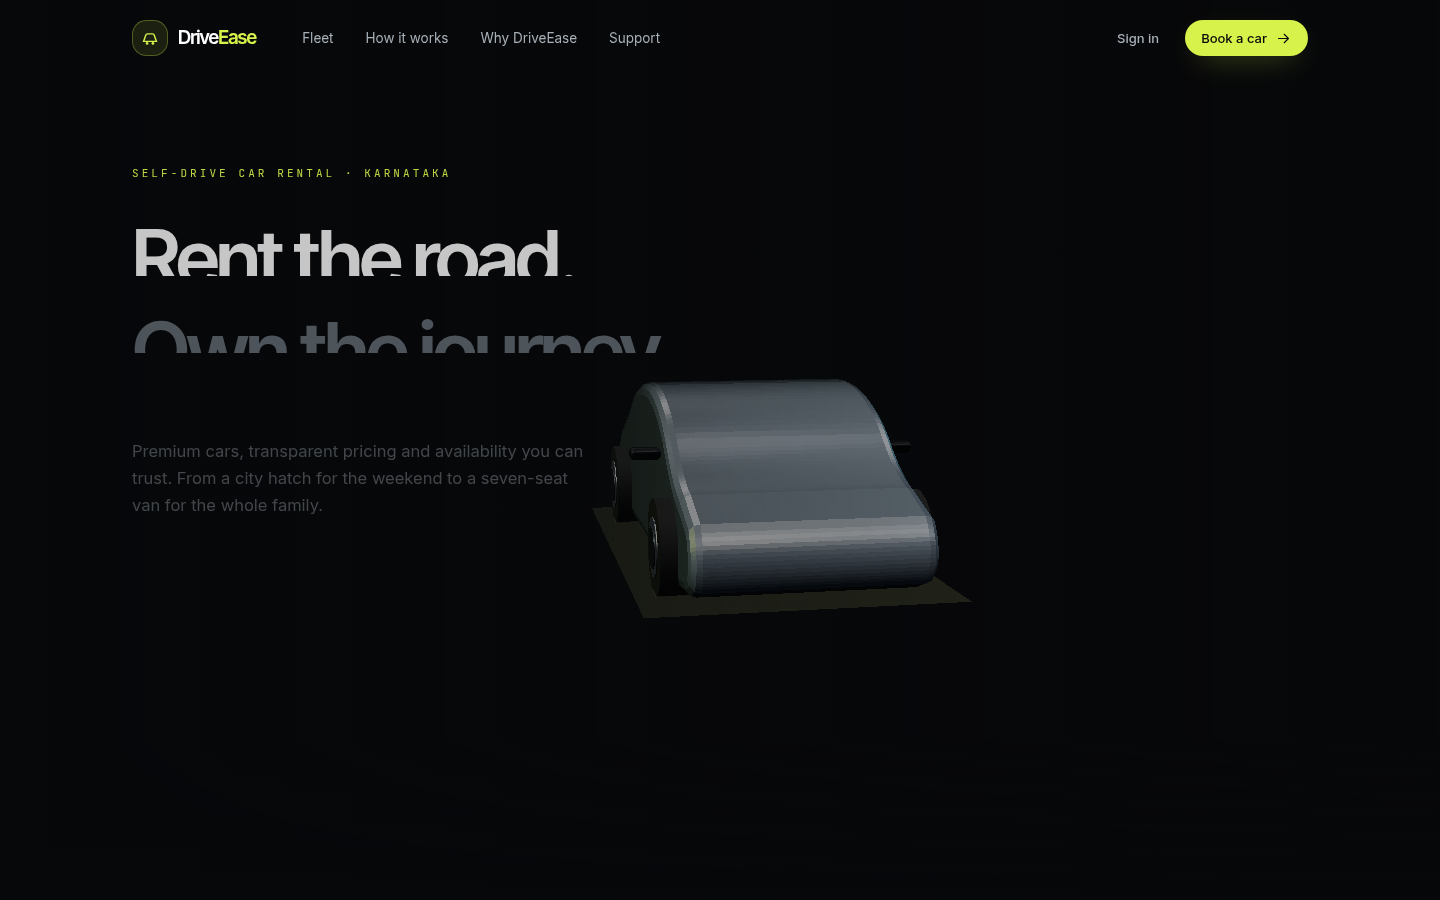
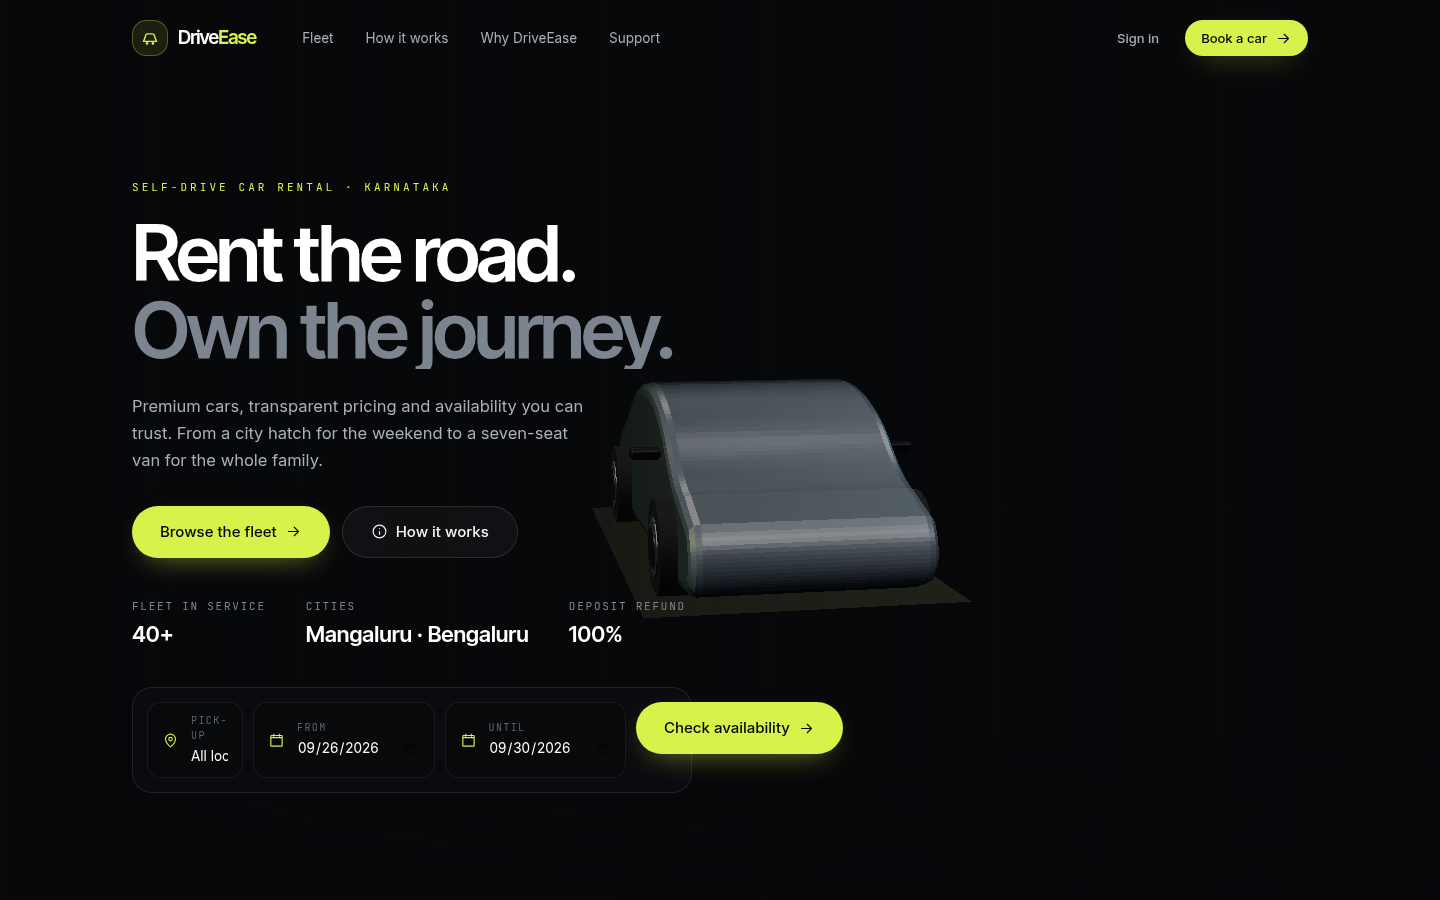
fix(auth): single-flight session restore and token-only refresh handling
- StrictMode double-mount (or a colliding 401 retry) fired two rotating
  refresh calls with the same cookie; reuse detection revoked the whole
  token family, silently signing the user out on every full page load.
  Refreshes now share one in-flight promise.
- applySession no longer clobbers the restored profile when /auth/refresh
  returns tokens only (profile arrives from GET /auth/session).
- Layout: fixed navbar offsets past the 260px console sidebar (no logo
  overlap); mobile hero uses min-height so short viewports never clip the
  headline under the navbar.
- Visual QA: authenticated Chromium walkthroughs of admin, fleet and
  customer consoles incl. mobile; 8 new screenshots in docs/screenshots.

diff --git a/frontend/src/context/AuthContext.jsx b/frontend/src/context/AuthContext.jsx
@@ -31,8 +31,17 @@ export function AuthProvider({ children }) {
 
   const applySession = useCallback((payload) => {
     setAccessToken(payload?.accessToken || null);
-    setUser(payload?.user || null);
-    setStatus(payload?.user ? 'authenticated' : 'anonymous');
+    if (payload?.user) {
+      setUser(payload.user);
+      setStatus('authenticated');
+    } else if (!payload?.accessToken) {
+      // Nothing arrived at all - treat as signed out.
+      setUser(null);
+      setStatus('anonymous');
+    }
+    // Tokens-only payloads (POST /auth/refresh carries no profile) leave the
+    // user/status untouched: refreshSession() has already resolved the profile
+    // via GET /auth/session and clobbering it here would sign the user out.
   }, []);
 
   const clearSession = useCallback(() => {
@@ -45,21 +54,40 @@ export function AuthProvider({ children }) {
    * Called by the API client when an access token expired, and once on cold
    * start. The response carries a new access token only, so the profile comes
    * from GET /auth/session (skipped when we already hold it).
+   *
+   * Single-flight: the refresh cookie ROTATES on every call and the backend
+   * revokes a token family when a rotated token is replayed, so two concurrent
+   * refreshes (React StrictMode double-mounts this effect in dev, and a 401
+   * retry can collide with cold start) would revoke the session they are
+   * trying to restore. Concurrent callers share one in-flight promise.
    */
-  const refreshSession = useCallback(async () => {
-    const payload = await authApi.refreshSession();
-    setAccessToken(payload?.accessToken || null);
+  const refreshInFlight = useRef(null);
 
-    let profile = userRef.current;
-    if (!profile) {
-      profile = await authApi.currentSession();
+  const refreshSession = useCallback(() => {
+    if (refreshInFlight.current) {
+      return refreshInFlight.current;
     }
-    if (mounted.current) {
-      setUser(profile);
-      setStatus('authenticated');
-    }
-    return payload;
+    refreshInFlight.current = (async () => {
+      try {
+        const payload = await authApi.refreshSession();
+        setAccessToken(payload?.accessToken || null);
+
+        let profile = userRef.current;
+        if (!profile) {
+          profile = await authApi.currentSession();
+        }
+        if (mounted.current) {
+          setUser(profile);
+          setStatus('authenticated');
+        }
+        return payload;
+      } finally {
+        refreshInFlight.current = null;
+      }
+    })();
+    return refreshInFlight.current;
   }, []);
+
 
   useEffect(() => {
     configureAuthBridge({ refresh: refreshSession, onLost: clearSession });
@@ -67,13 +95,15 @@ export function AuthProvider({ children }) {
 
   /**
    * Cold start: an access token only lives in memory, so ask the API whether the
-   * refresh cookie still represents a valid session.
+   * refresh cookie still represents a valid session. Goes through the
+   * single-flight refreshSession so StrictMode's double-mounted effect (and any
+   * colliding 401 retry) performs exactly one rotating refresh call.
    */
   useEffect(() => {
     let cancelled = false;
     (async () => {
       try {
-        const payload = await authApi.refreshSession();
+        const payload = await refreshSession();
         if (!cancelled) applySession(payload);
       } catch {
         if (!cancelled) clearSession();

diff --git a/frontend/src/components/layout/Navbar.jsx b/frontend/src/components/layout/Navbar.jsx
@@ -16,7 +16,7 @@ const PUBLIC_LINKS = [
   { to: '/support', label: 'Support' },
 ];
 
-export default function Navbar() {
+export default function Navbar({ className = '' }) {
   const { user, isAuthenticated, isStaff, isAdmin, logout } = useAuth();
   const scrolled = useScrollPosition(24);
   const [drawerOpen, setDrawerOpen] = useState(false);
@@ -70,7 +70,7 @@ export default function Navbar() {
       </a>
 
       <header
-        className={`fixed inset-x-0 top-0 z-50 transition-all duration-300 ${
+        className={`fixed inset-x-0 top-0 z-50 transition-all duration-300 ${className} ${
           scrolled
             ? 'border-b border-white/[0.06] bg-ink-950/85 backdrop-blur-xl'
             : 'border-b border-transparent bg-transparent'

diff --git a/frontend/src/pages/public/HomePage.jsx b/frontend/src/pages/public/HomePage.jsx
@@ -234,9 +234,10 @@ export default function HomePage() {
         </div>
 
         <div className="relative z-10 -mt-[100vh]">
-          {/* Panel 1 - the hero itself */}
-          <div className="shell flex h-screen items-center" ref={heroRef}>
-            <div className="max-w-[560px] pt-10">
+          {/* Panel 1 - the hero itself. min-h (not fixed h) so short viewports
+              never clip the top of the content under the fixed navbar. */}
+          <div className="shell flex min-h-screen items-center pb-16 pt-28 sm:pt-24" ref={heroRef}>
+            <div className="max-w-[560px] pt-0 sm:pt-10">
               <p className="eyebrow" data-hero-line>
                 Self-drive car rental · Karnataka
               </p>

diff --git a/frontend/src/components/layout/Layouts.jsx b/frontend/src/components/layout/Layouts.jsx
@@ -162,7 +162,8 @@ export function DashboardLayout() {
       </aside>
 
       <div className="flex min-w-0 flex-1 flex-col">
-        <Navbar />
+        {/* Offset the fixed navbar past the sidebar on large screens so the logos never collide. */}
+        <Navbar className="lg:left-[260px]" />
         <main id="main" className="flex-1 px-5 pb-20 pt-[92px] sm:px-8 lg:pt-[100px]">
           <div className="mx-auto w-full max-w-[1180px]">
             <Outlet />

diff --git a/README.md b/README.md
@@ -238,8 +238,12 @@ The repository is deployment-ready as documented.
 | `home.png` — cinematic hero with the 3D car | `fleet.png` — live availability search |
 | ![Vehicle detail](docs/screenshots/vehicle-detail.png) | ![Auth](docs/screenshots/login.png) |
 | `vehicle-detail.png` — gallery, specs, booking panel | `login.png` — the auth experience |
-| ![How it works](docs/screenshots/how-it-works.png) |  |
-| `how-it-works.png` — scroll-choreographed narrative section |  |
+| ![How it works](docs/screenshots/how-it-works.png) | ![Fleet console](docs/screenshots/fleet-console.png) |
+| `how-it-works.png` — scroll-choreographed narrative section | `fleet-console.png` — fleet manager overview |
+| ![Admin dashboard](docs/screenshots/admin-dashboard.png) | ![Customer dashboard](docs/screenshots/customer-dashboard.png) |
+| `admin-dashboard.png` — platform KPIs from live SQL aggregates | `customer-dashboard.png` — the customer home |
+| ![Admin reports](docs/screenshots/admin-reports.png) | ![Mobile home](docs/screenshots/mobile-home.png) |
+| `admin-reports.png` — revenue/utilisation analytics with CSV export | `mobile-home.png` — responsive hero with the 3D scene |
 
 ## Project layout
 
